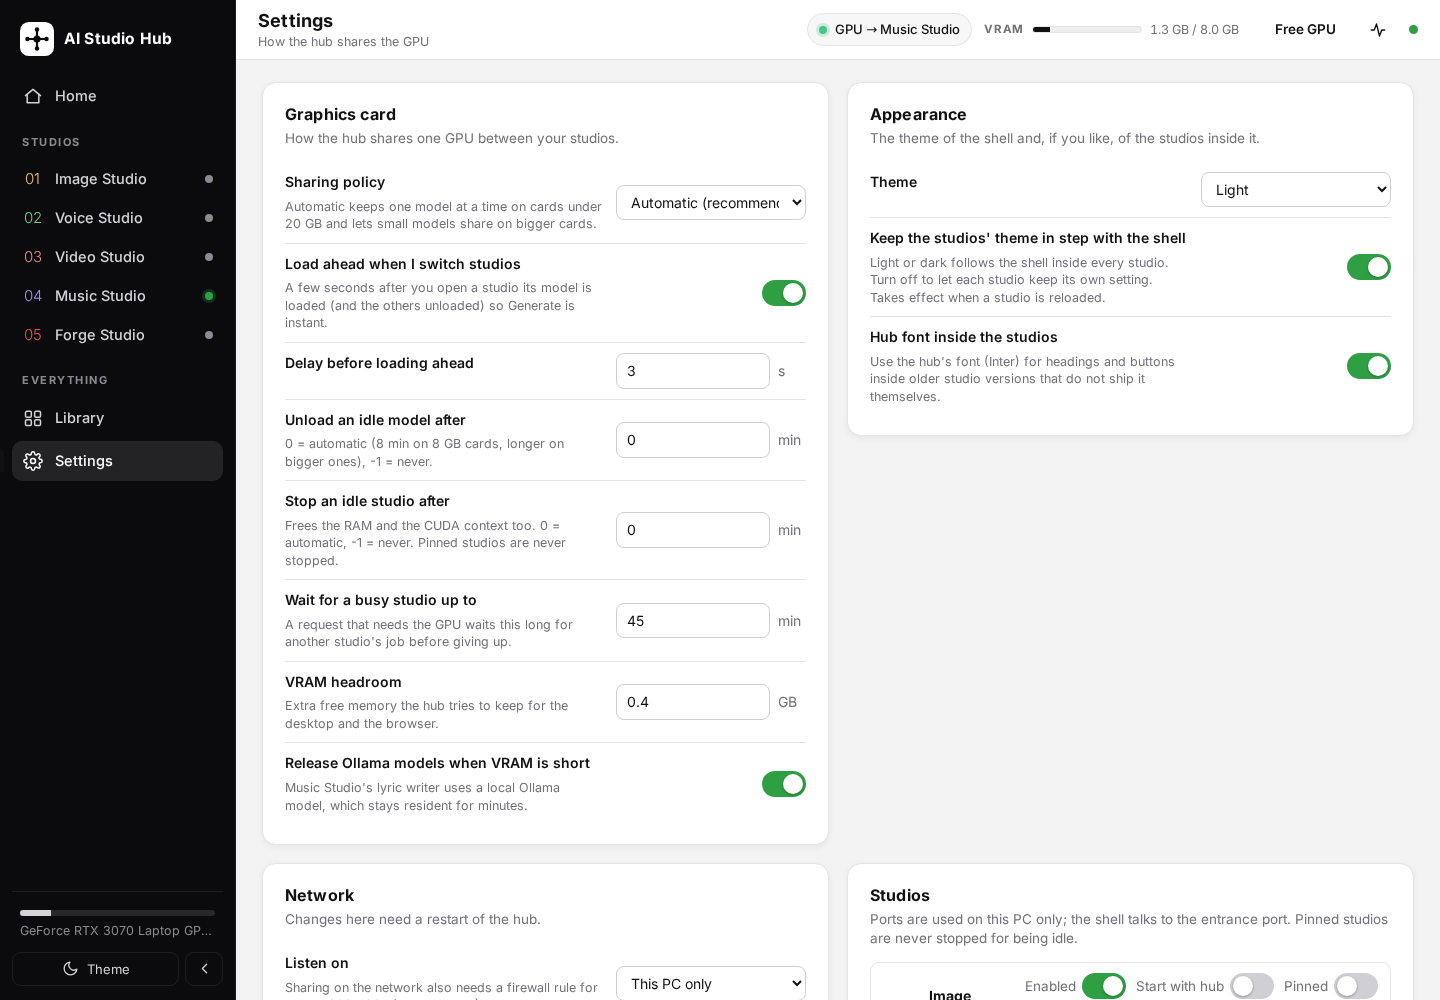
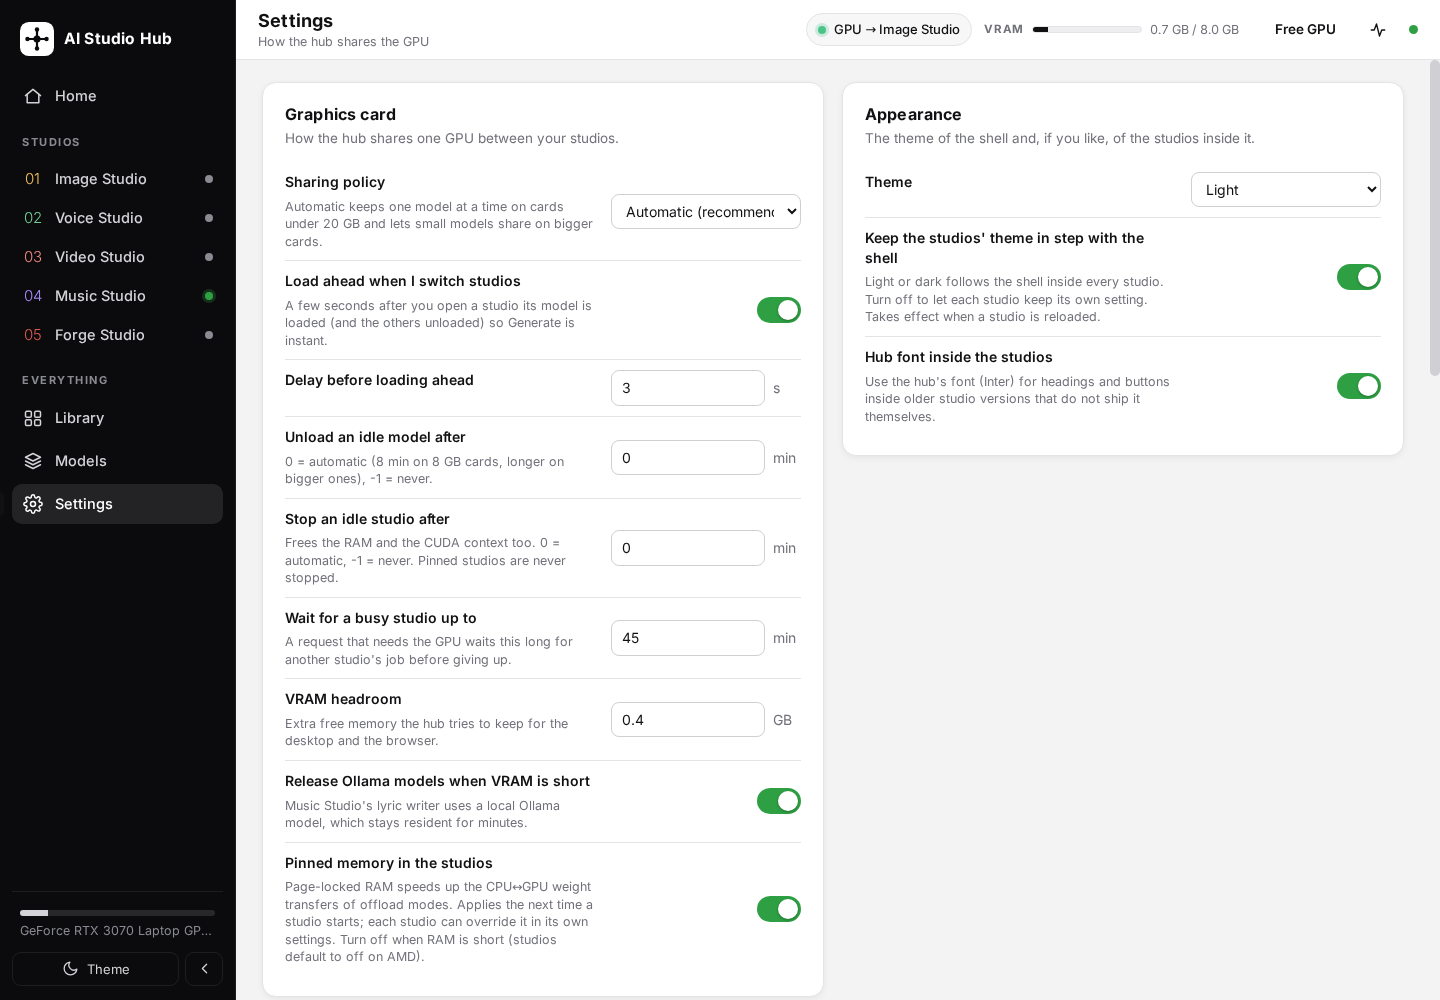
Pinned memory setting, Models docs and screenshots
Settings → Graphics card → Pinned memory sets AI_PIN_MEMORY=1|0 for every studio the hub starts
(native env and hub/compose/<service>.yml pass-through for the containers; overrides added for
video, yue2 and forge). docs/models.md documents the Models page and its API; README gains the
Models paragraph, the pinned-memory note and the Models screenshot. The Add dialog now receives
each kind's Civitai type filter (it was missing from the snapshot).

diff --git a/hub/web/app.js b/hub/web/app.js
@@ -551,6 +551,7 @@
       { key: "claim_wait_max_min", label: "Wait for a busy studio up to", type: "number", step: 1, min: 1, max: 600, unit: "min", help: "A request that needs the GPU waits this long for another studio's job before giving up." },
       { key: "vram_headroom_gb", label: "VRAM headroom", type: "number", step: 0.1, min: 0, max: 8, unit: "GB", help: "Extra free memory the hub tries to keep for the desktop and the browser." },
       { key: "release_ollama", label: "Release Ollama models when VRAM is short", type: "bool", help: "Music Studio's lyric writer uses a local Ollama model, which stays resident for minutes." },
+      { key: "pin_memory", label: "Pinned memory in the studios", type: "bool", help: "Page-locked RAM speeds up the CPU↔GPU weight transfers of offload modes. Applies the next time a studio starts; each studio can override it in its own settings. Turn off when RAM is short (studios default to off on AMD)." },
     ] },
     { title: "Appearance", lead: "The theme of the shell and, if you like, of the studios inside it.", fields: [
       { key: "theme", label: "Theme", type: "select", options: [["light", "Light"], ["dark", "Dark"]] },

diff --git a/hub/process.py b/hub/process.py
@@ -338,7 +338,8 @@ class ManagedProcess:
     # ------------------------------------------------------------------ launching
     def _launch_native(self, tdir: Path, cfg: dict[str, Any], port: int) -> tuple[subprocess.Popen, bool]:
         argv = self.spec.argv(tdir, port, cfg)
-        env = {**os.environ, **self.spec.env(tdir, cfg), "AI_HUB_URL": f"http://127.0.0.1:{self.hub.settings.hub_port}"}
+        env = {**os.environ, **self.spec.env(tdir, cfg), "AI_HUB_URL": f"http://127.0.0.1:{self.hub.settings.hub_port}",
+               "AI_PIN_MEMORY": "1" if self.hub.settings.pin_memory else "0"}
         self._log(f"[hub] {time.strftime('%Y-%m-%d %H:%M:%S')} starting: {' '.join(argv)}")
         return winjob.popen_in_job(argv, cwd=str(tdir), env=env, stdin=subprocess.DEVNULL, stdout=subprocess.PIPE,
                                    stderr=subprocess.STDOUT, text=True, encoding="utf-8", errors="replace",
@@ -355,7 +356,8 @@ class ManagedProcess:
             argv.append("--abort-on-container-exit")
         argv += services
         env = {**os.environ, **dk.compose_env(), **self.spec.docker_env(tdir, cfg),
-               "AI_HUB_URL": f"http://127.0.0.1:{self.hub.settings.hub_port}"}
+               "AI_HUB_URL": f"http://127.0.0.1:{self.hub.settings.hub_port}",
+               "AI_PIN_MEMORY": "1" if self.hub.settings.pin_memory else "0"}
         self._log(f"[hub] {time.strftime('%Y-%m-%d %H:%M:%S')} starting: {' '.join(argv)}")
         proc = subprocess.Popen(argv, cwd=str(tdir / "linux"), env=env, stdin=subprocess.DEVNULL, stdout=subprocess.PIPE,
                                 stderr=subprocess.STDOUT, text=True, encoding="utf-8", errors="replace",

diff --git a/hub/models.py b/hub/models.py
@@ -187,7 +187,7 @@ class Models:
                     for c in kind.get("catalog", []):
                         catalog.append({**c, "installed": c["name"] in have})
                     entry["kinds"].append({"id": kind["id"], "label": kind["label"], "dir": str(self.kind_dir(tool, kind)),
-                                           "layout": kind["layout"], "sources": kind.get("sources", ["hf", "url"]),
+                                           "layout": kind["layout"], "sources": kind.get("sources", ["hf", "url"]), "civitai": kind.get("civitai"),
                                            "installed": installed, "catalog": catalog, "selectable": bool(kind.get("use"))})
                 entry["active"] = await self._active(tool)
             studios.append(entry)

diff --git a/hub/config.py b/hub/config.py
@@ -76,6 +76,7 @@ class Settings:
     brand_fonts_in_tools: bool = True
     stop_tools_on_exit: bool = True
     library_page_size: int = 60
+    pin_memory: bool = True              # AI_PIN_MEMORY for every studio: page-locked RAM for CPU<->GPU transfers
     hf_token: str = ""                   # HuggingFace token for gated models (Models page)
     civitai_token: str = ""              # Civitai API key for downloads that need it
     tools: dict[str, dict[str, Any]] = field(default_factory=lambda: copy.deepcopy(DEFAULT_TOOLS))

diff --git a/docs/models.md b/docs/models.md
@@ -1,0 +1,86 @@
+# Models - one page for every studio's models
+
+The **Models** page (Alt+M) lists what each studio has installed, what it can download, and which
+model it is using - and lets you download, redownload, verify, delete and switch from the hub, so
+a newer model never means hunting through five folders.
+
+## Two kinds of studio
+
+| studio | how the hub works with it |
+|---|---|
+| Image Studio, Music Studio, Forge | **folders and files on disk.** The hub scans the studio's model folders, shows the known catalogue next to what is installed, downloads straight into the right folder and tells the studio which model to use through its own API. |
+| Voice Studio, Video Studio | **delegated.** These studios already have a catalogue and a downloader of their own (Voice: the HuggingFace cache it fills on load; Video: its model packs with resumable downloads). The hub shows that catalogue and forwards download / cancel / delete to the studio. The studio has to be running for its list to appear. |
+
+What each studio exposes is declared in `hub/tools.py` (`ToolSpec.model_kinds`, `model_delegate`,
+`model_note`); the registry, scanners and download manager are `hub/models.py`.
+
+| studio | kinds | selectable ("Use") |
+|---|---|---|
+| Image Studio | `model` - diffusers folders in `models/` (catalogue: Qwen-Image-2.1 and the two prompt enhancers); `lora` - `.safetensors` in `loras/` | model: the hub unloads the current one, rewrites `model_path` through `/api/settings` and reloads |
+| Voice Studio | the Qwen3-TTS models from `/api/catalog`, plus the tokenizer | model: `/api/models/load` after an orchestrator claim (downloads first if needed) |
+| Video Studio | the model packs from `/api/models` (per engine, with per-file download state) | pack: becomes that engine's variant and the engine becomes the default |
+| Music Studio | `model` - folders in `models/` (YuE2-3B, the VAEs, SheetSage2, MERT) | the stage-1 song model, through the studio's `/api/models/select` |
+| Forge | `checkpoint`, `lora` (recursive), `vae`, `controlnet`, `upscaler` - Forge's `models/*` folders | checkpoint: `sd_model_checkpoint` through `/sdapi/v1/options` |
+
+"Use" always goes through the GPU orchestrator first, so switching a model frees the card the
+same way Generate does.
+
+## Adding a model
+
+**Add…** on any folder/file kind opens three sources:
+
+* **HuggingFace** - a repository id (`owner/repo`). *Look up* shows the size, the file count and
+  whether it is gated. Folder kinds download the whole repository (`snapshot_download`, resumable,
+  into a folder named as you like); file kinds offer the single weight files in the repository
+  (`.safetensors`, `.ckpt`, `.gguf`, `.pt`, `.pth`, `.bin`, `.onnx`).
+* **Civitai** - search (filtered to the kind's type: Checkpoint, LORA, VAE, Controlnet; Image Studio's
+  LoRAs are filtered to the Qwen base model). The latest version's primary file is downloaded and
+  checked against the SHA-256 Civitai publishes.
+* **Direct link** - any URL; an optional SHA-256 is verified after the download.
+
+Direct and Civitai downloads write `<name>.part` and resume with a `Range` request if interrupted
+or cancelled; HuggingFace downloads resume through the HuggingFace cache. Downloads run inside the
+hub (two at a time), survive leaving the page, show in the **Downloads** panel with speed and ETA,
+and finish with a toast. The activity feed logs the outcome.
+
+The catalogue entries (the models a studio was built around) have a **Download** button when
+missing and **Verify** / **Redownload** when installed: *Verify* checks every file of a HuggingFace
+folder against the repository (presence and size; documentation and demo assets are ignored) and
+single files against their known checksum; *Redownload* fetches again and replaces missing or
+wrong files.
+
+Tokens: **Settings → Models** holds a HuggingFace token (gated repositories) and a Civitai API key
+(some downloads require one). They are stored in the hub's `data/settings.json` on this PC only.
+
+## Paths
+
+Studios on Linux run in containers and report paths as they see them (`/app/...`, `/cache/...`);
+the hub maps those back to the host (`/app` → the studio folder, `/cache` → `$AI_CACHE`, default
+`~/.cache/ai-tools`) so the page always shows real folders. Downloads go to the host folder; the
+container sees them immediately through its bind mount.
+
+## API
+
+| | |
+|---|---|
+| `GET /api/models` | the whole page: per studio, kinds with installed items and catalogue, active model, tokens present; plus live downloads |
+| `POST /api/models/download` | `{tool, kind, name, source}` - `source.type` = `hf` (`repo`, optional `allow_patterns`), `hf_file` (`repo`, `path`), `url` / `civitai` (`url`, optional `sha256`, `size`). Delegated studios: `{tool, variant_id}` (Video) or `{tool, name}` (Voice) |
+| `GET /api/models/downloads`, `POST …/downloads/{id}/cancel`, `POST …/downloads/clear` | the queue |
+| `POST /api/models/delete` | `{tool, kind, name}` (delegated: `{tool, name}`) |
+| `POST /api/models/verify` | `{tool, kind, name}` → `{ok, message, missing, wrong_size}` |
+| `POST /api/models/use` | `{tool, kind, name}` → `{ok, message}` |
+| `GET /api/models/hf?repo=` | repository info for the Add dialog |
+| `GET /api/models/civitai?q=&types=&base=` | search results (cached 5 min) |
+
+Progress arrives on `/api/events` as `download` events (`id, tool, kind, name, status, bytes,
+total, percent, speed, eta, message`); `status` is `queued`, `running`, `verifying`, `done`,
+`error` or `cancelled`.
+
+## Adding a new model to the catalogue
+
+Edit the studio's `model_kinds` in `hub/tools.py`: a catalogue entry is `{"name", "label",
+"detail", "size_h", "source"}` with the same `source` shape as the download API. A kind is
+`{"id", "label", "dir", "layout": "folder" | "file", "exts", "marker", "recursive", "use",
+"sources", "civitai": {"types", "base"}, "catalog"}`. Models that need code changes in the studio
+(a different architecture) still need that code change - the page only manages files and the
+studio's own selection API.

diff --git a/README.md b/README.md
@@ -37,6 +37,10 @@ and Music Studio:*
 
 ![Library](docs/screenshots/library.png)
 
+*Models: every studio's models in one place - installed, downloadable, selectable:*
+
+![Models](docs/screenshots/models.png)
+
 *Settings: the GPU policy and timers, and one row per studio:*
 
 ![Settings](docs/screenshots/settings.png)
@@ -119,6 +123,12 @@ through `nvidia-smi`, `rocm-smi`/`amd-smi` or the Windows GPU performance counte
 check-up page shows which vendor each studio was set up for. [docs/gpu.md](docs/gpu.md) is the contract and
 the per-studio detail.
 
+**Pinned memory.** Settings → Graphics card → *Pinned memory in the studios* sets `AI_PIN_MEMORY=1|0` for
+every studio the hub starts. Page-locked host RAM makes the CPU↔GPU weight transfers of the offload modes
+faster (Image Studio's offload profiles, Music Studio's low-VRAM swap, Forge's `--pin-shared-memory`,
+Video Studio's engine); each studio reads the variable, defaults to on for CUDA and off for ROCm, and has
+its own toggle that overrides the hub. Turn it off when RAM is short - pinned memory cannot be swapped out.
+
 ## How the auto-loader works
 
 Every request that needs the GPU (Generate, Enhance, Load model, Start engine, Sing, Transcribe, a Forge txt2img …) passes through the hub first. Before forwarding it the hub:
@@ -151,7 +161,8 @@ Also built in:
 * **Studios** — each tool runs inside the shell (Alt+1 … Alt+5). Every studio implements the same design language natively (see [docs/design.md](docs/design.md)), so it looks the same on its own and inside the hub; the shell only keeps the studio's light/dark theme in step with its own (Settings → Appearance) and hides the studio's own top-bar branding, since the shell shows its name.
 * **Library** — every image, clip, video and song the studios have ever made, in one searchable grid with a viewer, downloads and "open folder".
 * **Send to…** — from the Library viewer, hand any output straight to another studio: an image becomes the start frame in Video Studio or a reference in Image Studio's Edit & Combine, a voice clip becomes the reference voice for Music Studio's "sing it in this voice", a song goes to Voice Studio's speech-to-speech, a video to its dubbing. No download, no upload: the hub opens the target studio, waits for it, and drops the file into the slot you chose ([docs/handoff.md](docs/handoff.md) lists every slot and the small receiver each studio implements). It reads the tools' output folders directly (Forge's prompts come from the PNG metadata), so it works even when a studio is off.
-* **Settings** — GPU policy and timers, appearance, network, per-studio folders / ports / autostart / pinning, and a check-up of what is installed.
+* **Models** — one page for every studio's models: what is installed (with sizes and dates), the catalogue each studio was built around, and which model is in use. Download from HuggingFace, Civitai or a direct link straight into the right folder (resumable, checksum-verified, with a live Downloads panel), verify or redownload an installed model, delete it, or press **Use** to switch a studio to it - the hub frees the GPU first. Voice and Video Studio keep their own catalogues and the hub drives them ([docs/models.md](docs/models.md)).
+* **Settings** — GPU policy and timers, pinned memory, appearance, network, HuggingFace / Civitai tokens, per-studio folders / ports / autostart / pinning, and a check-up of what is installed.
 * Light and dark themes; the theme is applied inside the studios too.
 
 ## Moved a tool folder? The hub repairs it

diff --git a/docs/gpu.md b/docs/gpu.md
@@ -122,6 +122,18 @@ code is untouched. These are the CUDA-only extras and their AMD behaviour:
 Not available on Windows ROCm at all: Triton, xformers, flash-attn, SageAttention, bitsandbytes,
 CUDA graphs. The initialisers skip those wheels with a one-line note.
 
+## Pinned memory
+
+One convention for all studios: the environment variable `AI_PIN_MEMORY` (`1` / `0`) decides whether a
+studio pins (page-locks) the host-side copies of weights it moves to the GPU repeatedly - the offload
+profiles in Image Studio, the low-VRAM swap in Music Studio, `--pin-shared-memory` in Forge, ComfyUI's
+pinned allocator in Video Studio, the per-request audio tensors in Voice Studio. Unset, a studio defaults
+to **on for CUDA and off for ROCm / CPU** (ComfyUI's convention: pinned memory on ROCm has known
+problems); each studio also has its own setting that overrides the variable, and reports the resolved
+state in its status API. The hub sets the variable for every studio it starts from Settings → Graphics
+card → *Pinned memory in the studios* (on by default); on Linux the hub's compose overrides pass it into
+the containers. Pinned memory cannot be swapped out, so on machines with little RAM turn it off.
+
 ## Hub
 
 `hub/gpu.py` reads the card through whichever tool exists: `nvidia-smi`, else `rocm-smi`/`amd-smi`

diff --git a/hub/compose/README.md b/hub/compose/README.md
@@ -7,6 +7,7 @@ starts a studio's container on Linux it runs
 
 so the studio's own packaging stays untouched and the hub only adds what it needs: mostly
 "start idle" switches, because the hub - not the container's boot - decides when a model is
-loaded onto the GPU. Video Studio needs no file (the hub sets `engine_autostart: false` in its
-`data/settings.json`, see tools.py); Music Studio and Forge already start without
-touching the GPU.
+loaded onto the GPU (Video Studio starts idle because the hub sets `engine_autostart: false` in its
+`data/settings.json`, see tools.py; Music Studio and Forge already start without touching the GPU).
+Every file also passes `AI_PIN_MEMORY` (Settings → Graphics card → Pinned memory) into the container,
+because a studio's own compose file lists its environment explicitly and would otherwise drop it.
